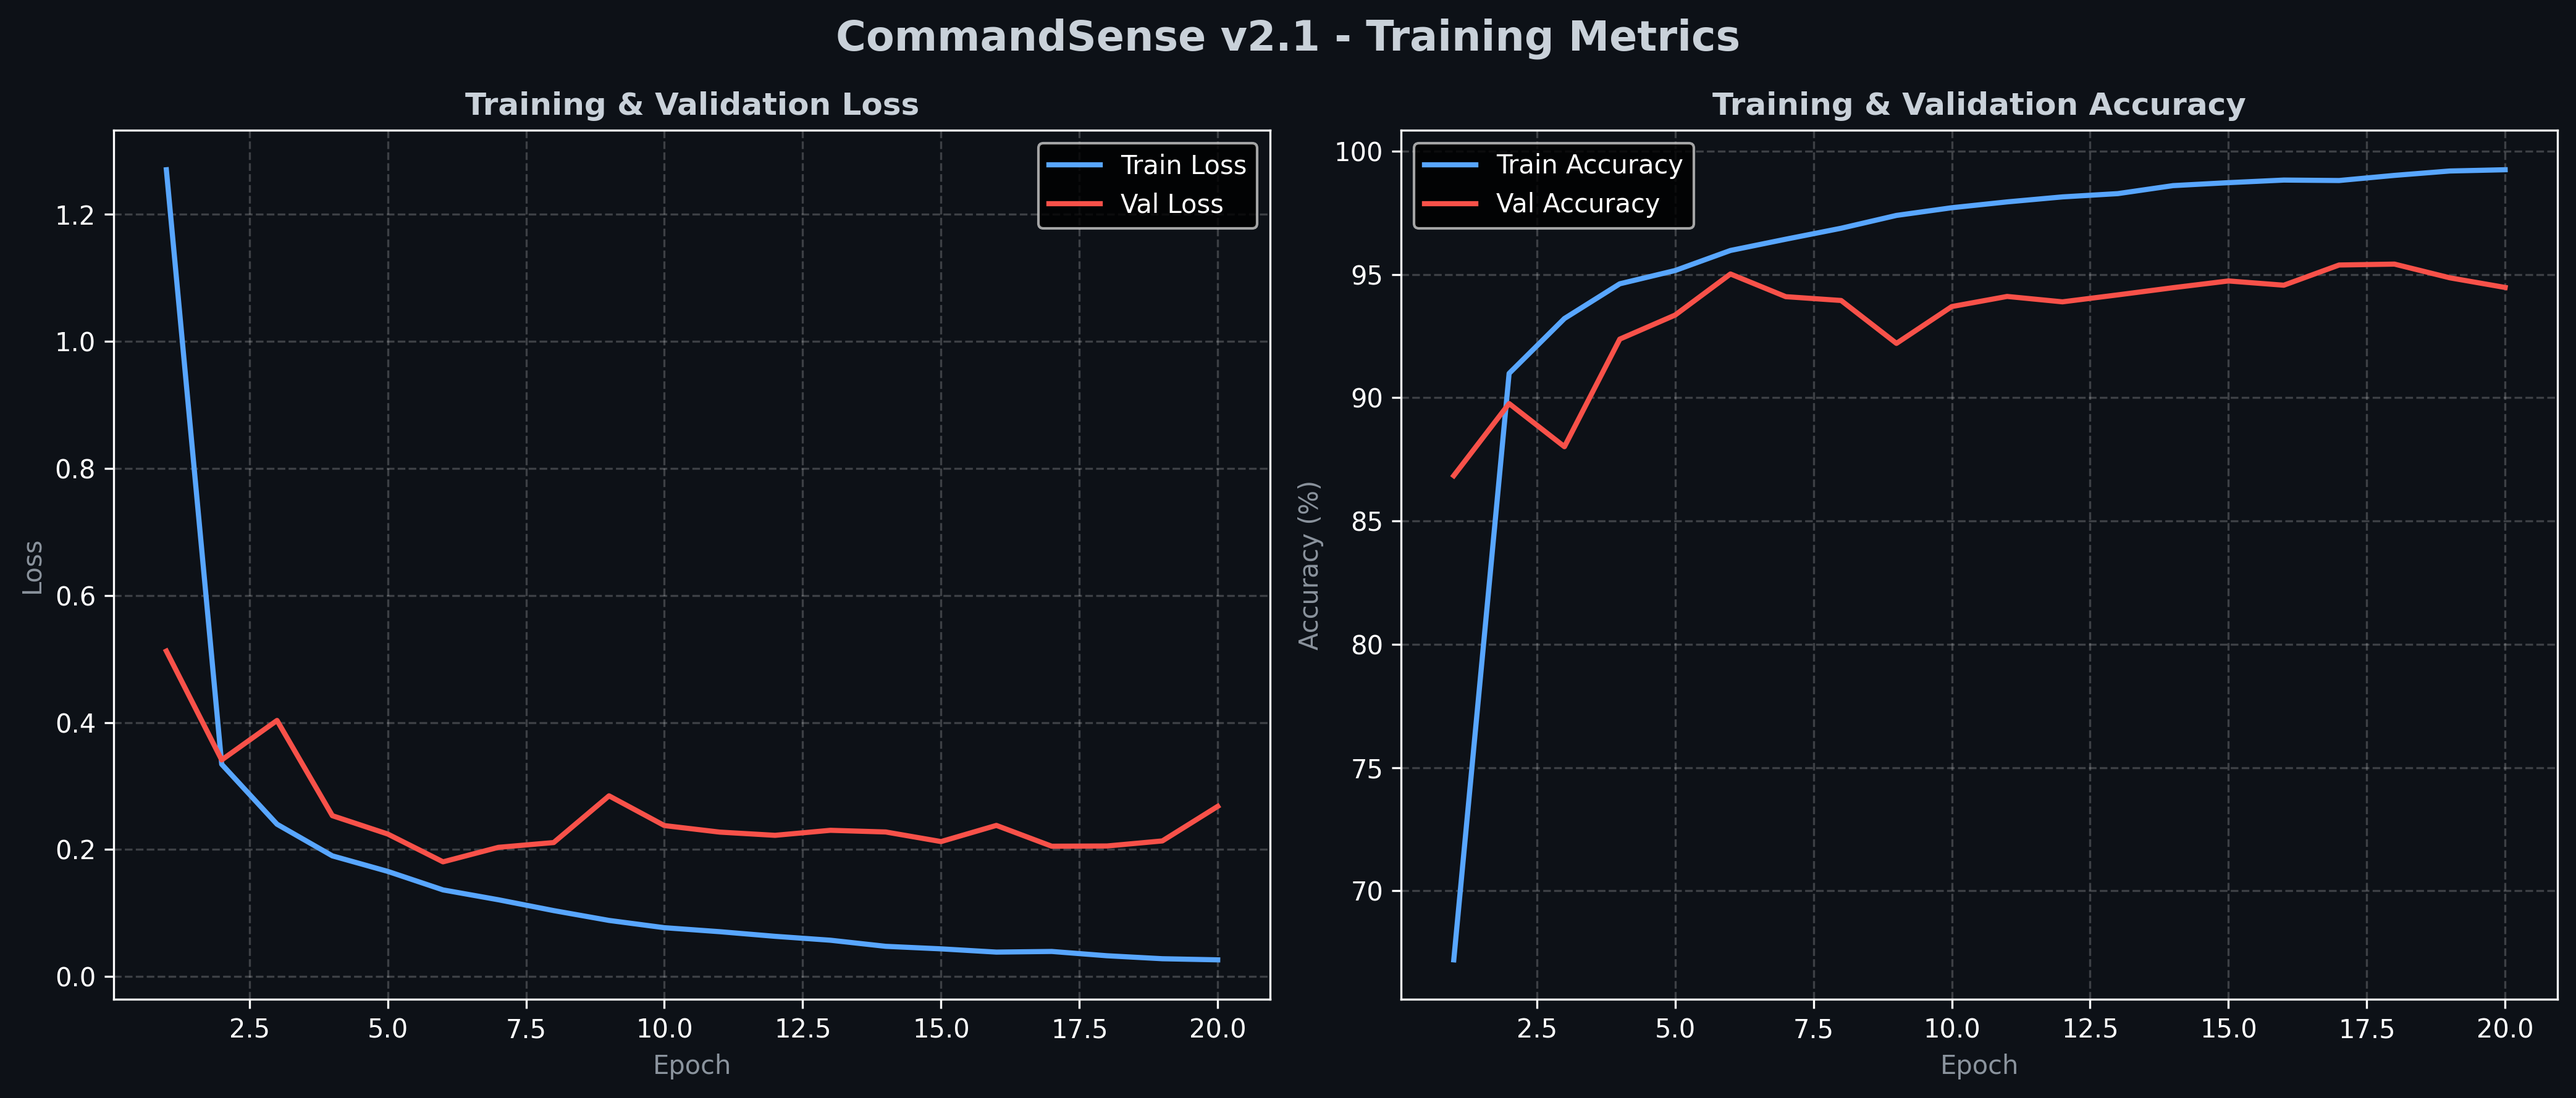
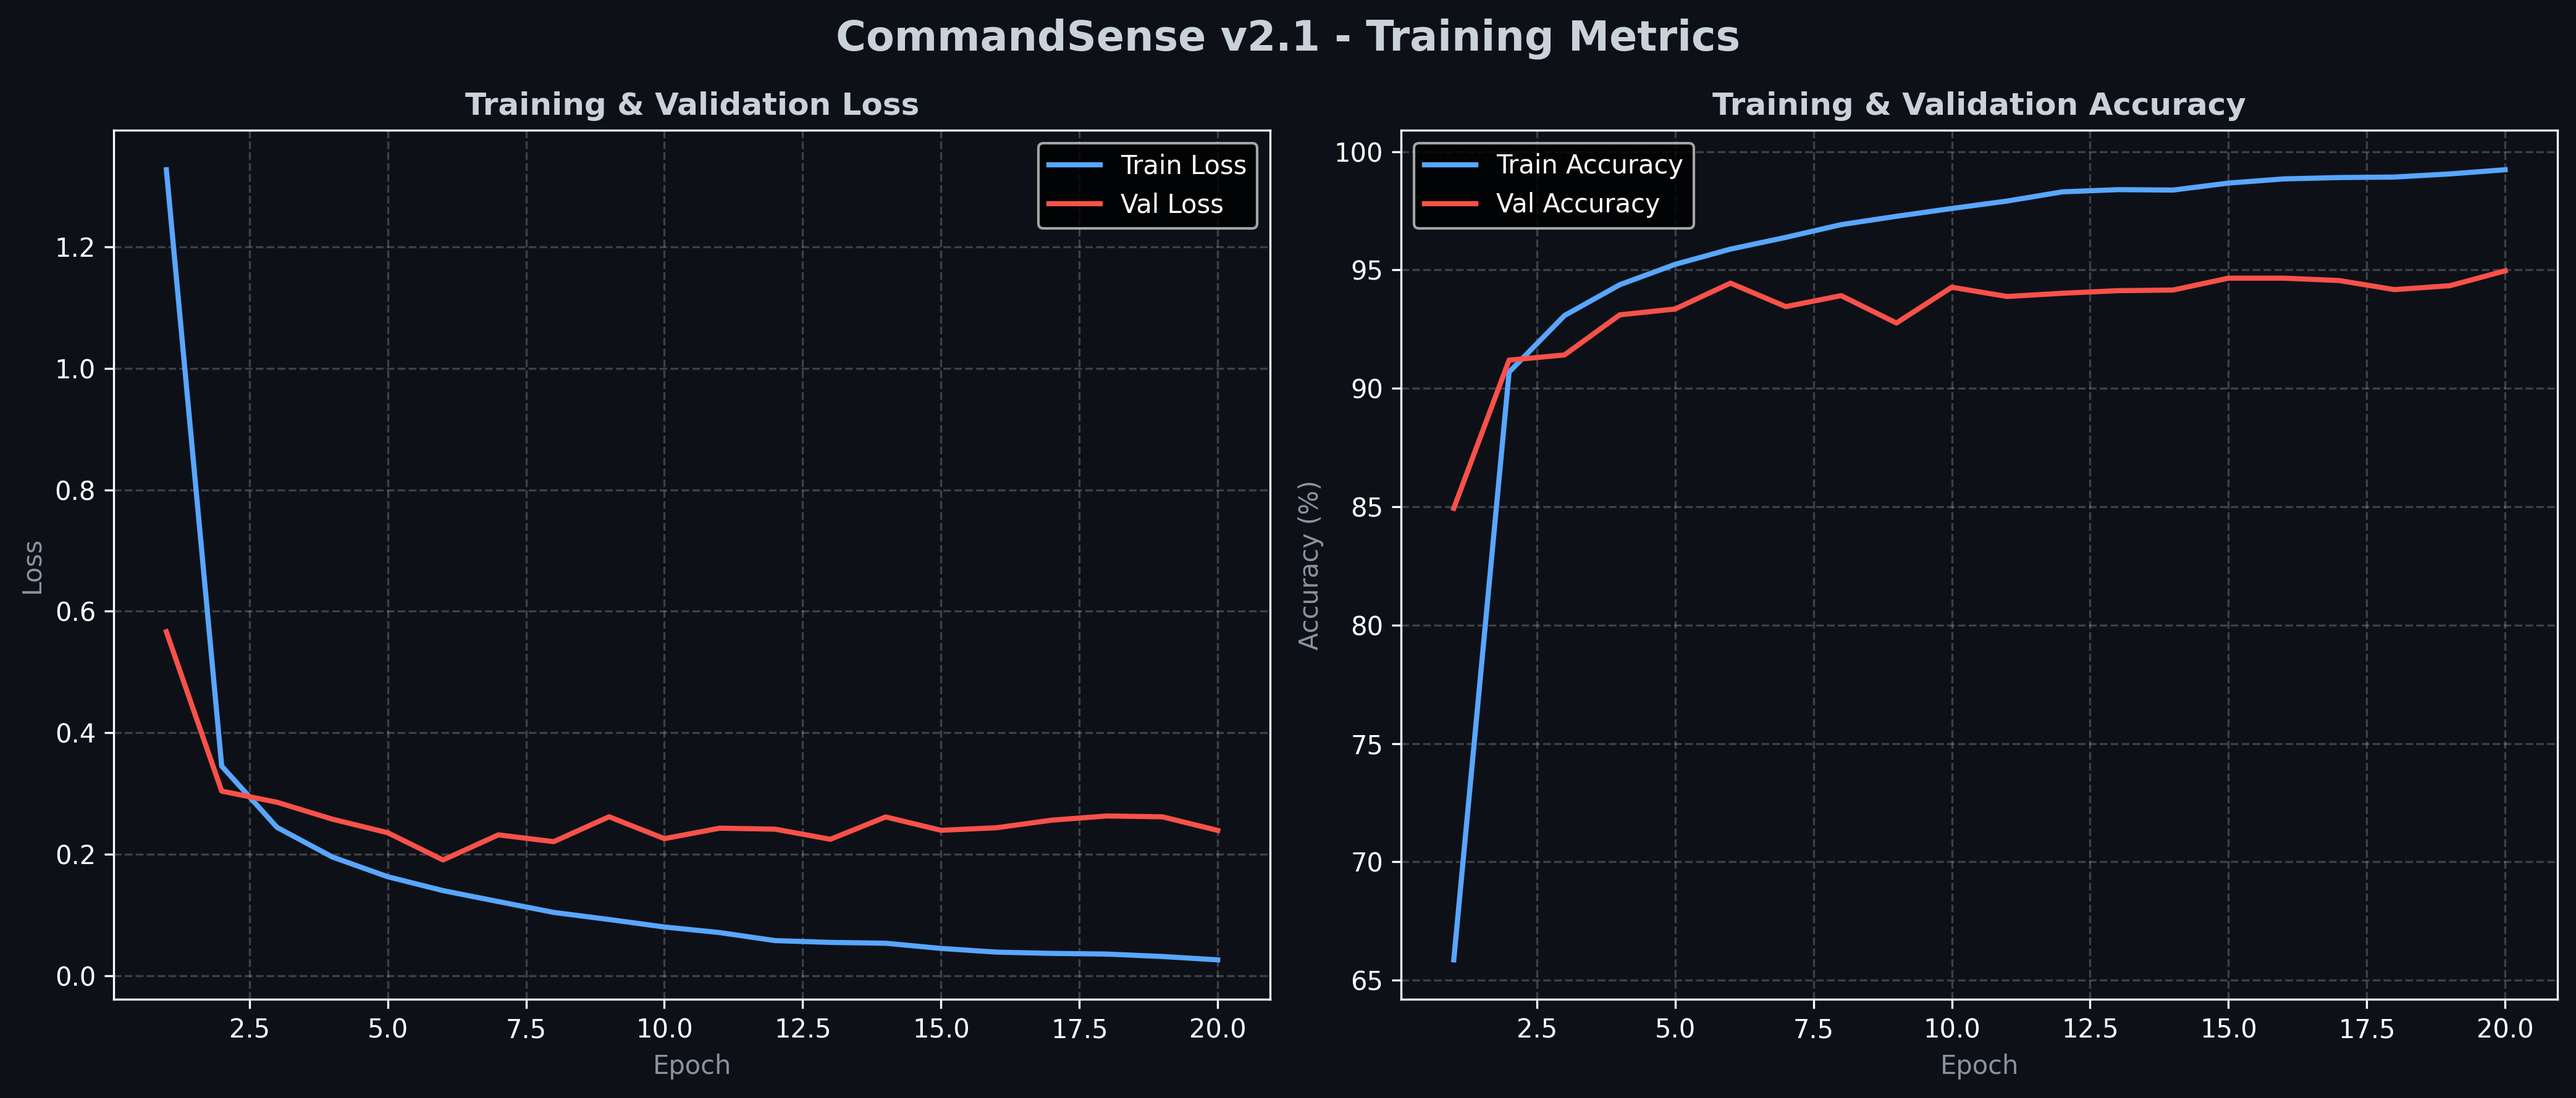
feat: enhance dataset preparation by adding checks for background noise and LibriSpeech samples

diff --git a/src/dataset.py b/src/dataset.py
@@ -91,35 +91,41 @@ class SpeechCommandsDataset(Dataset):
         num_extra_target = int(len(self.raw_dataset) * 0.05)  # ~5% of split size
 
         # 1. Inject _silence_ samples (split noise sources to prevent train/test leakage)
-        if os.path.exists(bg_dir):
-            bg_files = sorted([
-                os.path.join(bg_dir, f)
-                for f in os.listdir(bg_dir)
-                if f.endswith(".wav")
-            ])
-            
-            # Partition background noise files between splits
-            if self.subset == "training":
-                selected_bg = bg_files[:4]
-            else:
-                selected_bg = bg_files[4:]
-                
-            if selected_bg:
-                for _ in range(num_extra_target):
-                    bg_file = random.choice(selected_bg)
-                    waveform, sr = torchaudio.load(bg_file)
-                    
-                    if waveform.shape[1] > TARGET_SAMPLES:
-                        max_start = waveform.shape[1] - TARGET_SAMPLES
-                        start = random.randint(0, max_start)
-                        chunk = waveform[:, start : start + TARGET_SAMPLES]
-                    else:
-                        chunk = waveform
-                    
-                    chunk = chunk * random.uniform(0.1, 1.0)
-                    self.extra_samples.append((chunk, sr, "_silence_"))
+        if not os.path.exists(bg_dir):
+            raise RuntimeError(f"[!] Background noise directory not found at '{bg_dir}'.")
+
+        bg_files = sorted([
+            os.path.join(bg_dir, f)
+            for f in os.listdir(bg_dir)
+            if f.endswith(".wav")
+        ])
+
+        if len(bg_files) < 5:
+            raise RuntimeError(
+                f"Expected at least 5 background noise files in {bg_dir}, found {len(bg_files)}."
+            )
+
+        # Partition background noise files: 4 files for training, remaining for val/test
+        if self.subset == "training":
+            selected_bg = bg_files[:4]
         else:
-            print(f"[!] Warning: Background noise directory {bg_dir} not found.")
+            selected_bg = bg_files[4:]
+
+        silence_count = 0
+        for _ in range(num_extra_target):
+            bg_file = random.choice(selected_bg)
+            waveform, sr = torchaudio.load(bg_file)
+            
+            if waveform.shape[1] > TARGET_SAMPLES:
+                max_start = waveform.shape[1] - TARGET_SAMPLES
+                start = random.randint(0, max_start)
+                chunk = waveform[:, start : start + TARGET_SAMPLES]
+            else:
+                chunk = waveform
+            
+            chunk = chunk * random.uniform(0.1, 1.0)
+            self.extra_samples.append((chunk, sr, "_silence_"))
+            silence_count += 1
 
         # 2. Inject _unknown_ samples from LibriSpeech (real OOV speech)
         ls_url = "dev-clean" if self.subset in ("validation", "testing") else "train-clean-100"
@@ -133,9 +139,9 @@ class SpeechCommandsDataset(Dataset):
             indices = list(range(len(librispeech_ds)))
             random.shuffle(indices)
             
-            collected = 0
+            unknown_count = 0
             for idx in indices:
-                if collected >= num_extra_target:
+                if unknown_count >= num_extra_target:
                     break
                 waveform, sr, _, _, _, _ = librispeech_ds[idx]
                 
@@ -150,13 +156,19 @@ class SpeechCommandsDataset(Dataset):
                     )
                 
                 self.extra_samples.append((chunk, sr, "_unknown_"))
-                collected += 1
+                unknown_count += 1
 
         except Exception as e:
-            print(f"[!] Warning: Failed to load LibriSpeech dataset ({e}). Falling back to noise mix.")
-            for _ in range(num_extra_target):
-                noise = torch.randn(1, TARGET_SAMPLES) * 0.02
-                self.extra_samples.append((noise, SAMPLE_RATE, "_unknown_"))
+            raise RuntimeError(
+                f"_unknown_ samples require LibriSpeech ({ls_url}) but loading failed: {e}. "
+                "Refusing to fall back to synthetic noise, which would silently make the "
+                "rejection class meaningless."
+            ) from e
+
+        print(
+            f"[+] Extra samples generated for split '{self.subset}': "
+            f"_silence_={silence_count}, _unknown_={unknown_count}"
+        )
 
     def _get_raw_sample(self, idx: int):
         """Fetches raw audio dynamically on demand to avoid RAM saturation."""
